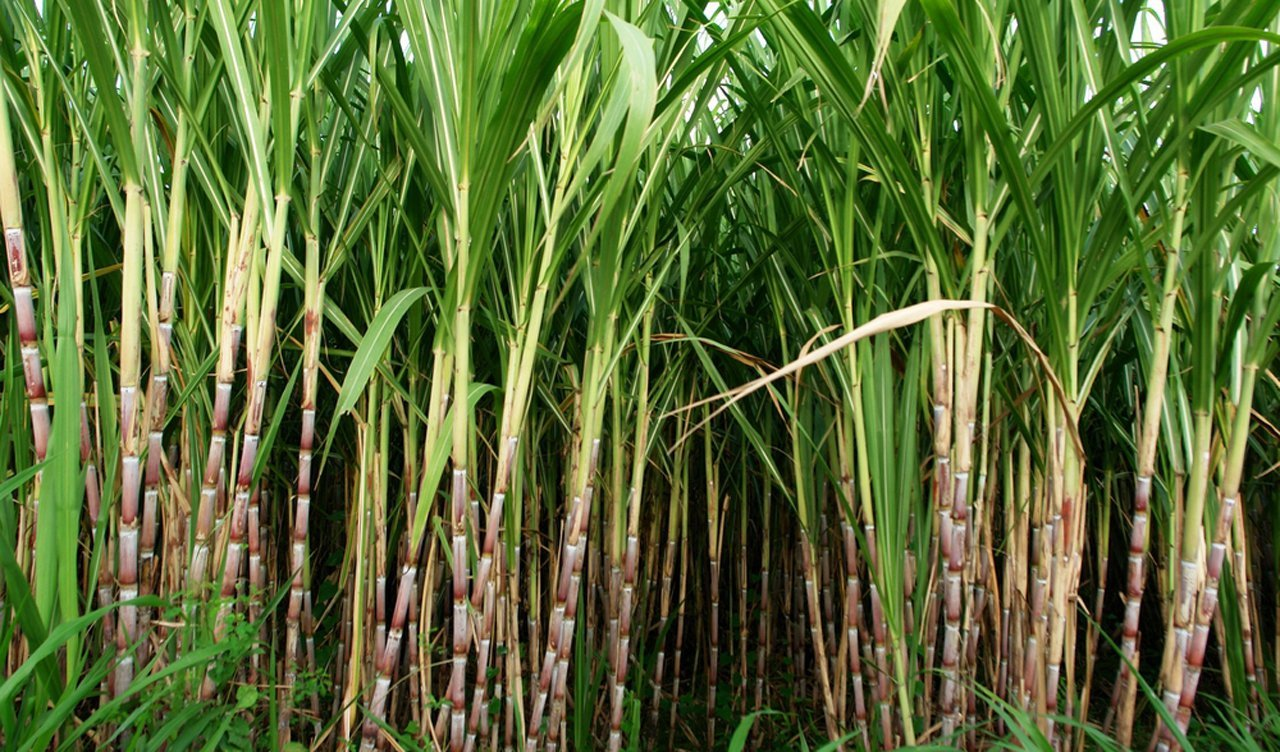
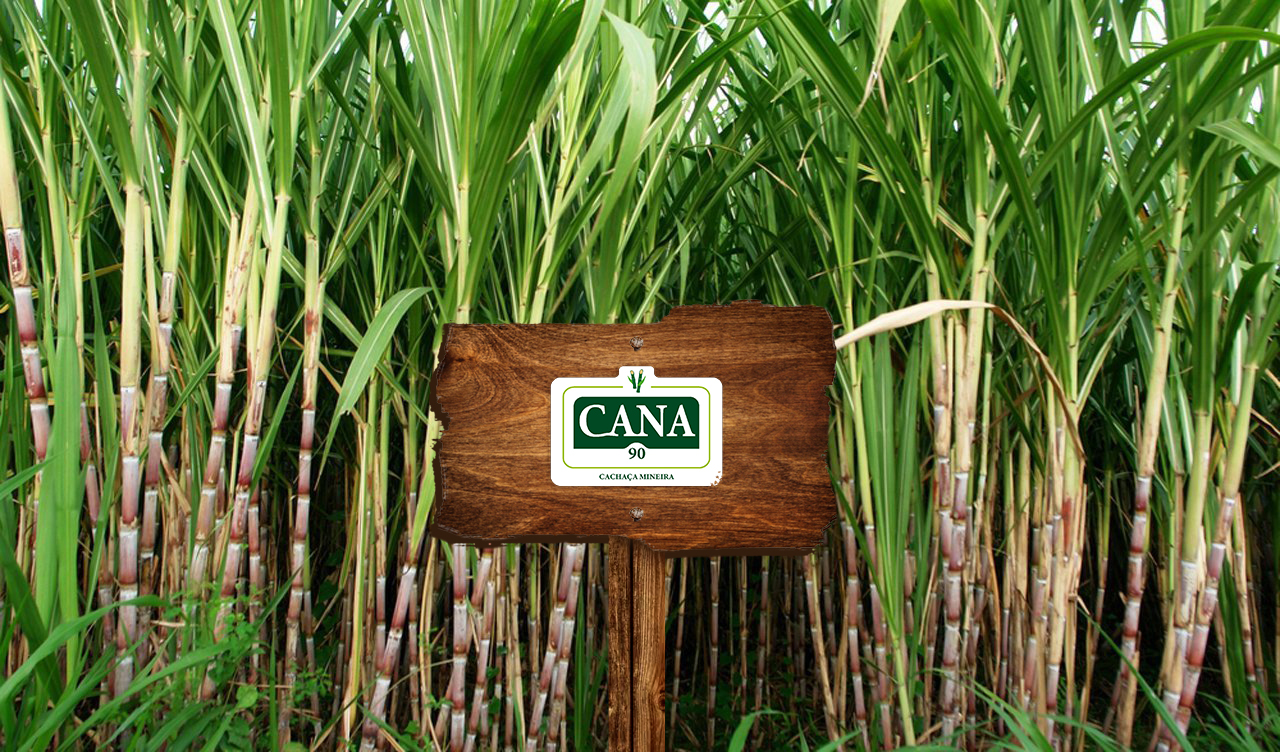
fix

Changed region(s): [[0.3125, 0.3976, 0.6562, 1.0]]

diff --git a/index.html b/index.html
@@ -35,7 +35,6 @@
     </div>
 
     <section class="landingPage">
-        <img src="resources/logoCana90.png" alt="Logo cana 90">
     </section>
     <section class="boutSection">
         <div class="boutHeader">
@@ -52,7 +51,7 @@
     </section>
     <footer>
         <h1>Cana 90</h1>
-        <p><b>Whatsapp:</b> (37) 9 9961-1961</p>
+        <p><b>Whatsapp:</b> (37) 9 8403-8900</p>
         <p><b>Email:</b> contato@cana90.com</p>
         <div class="credits">By Nicolas Ibraim</div>
     </footer>

diff --git a/css/home.css b/css/home.css
@@ -235,7 +235,7 @@ ul li a:hover {
 
 .landingPage {
   height: 100vh;
-  background: url("/resources/wallpaper.jpeg");
+  background: url("../resources/wallpaper.jpeg");
   background-size: cover;
   background-position: center;
   display: -webkit-box;

diff --git a/css/home.scss b/css/home.scss
@@ -198,7 +198,7 @@ ul{
 .landingPage{
     height: 100vh;
     
-    background: url('/resources/wallpaper.jpeg');
+    background: url('../resources/wallpaper.jpeg');
     background-size: cover;
     background-position: center;
 
